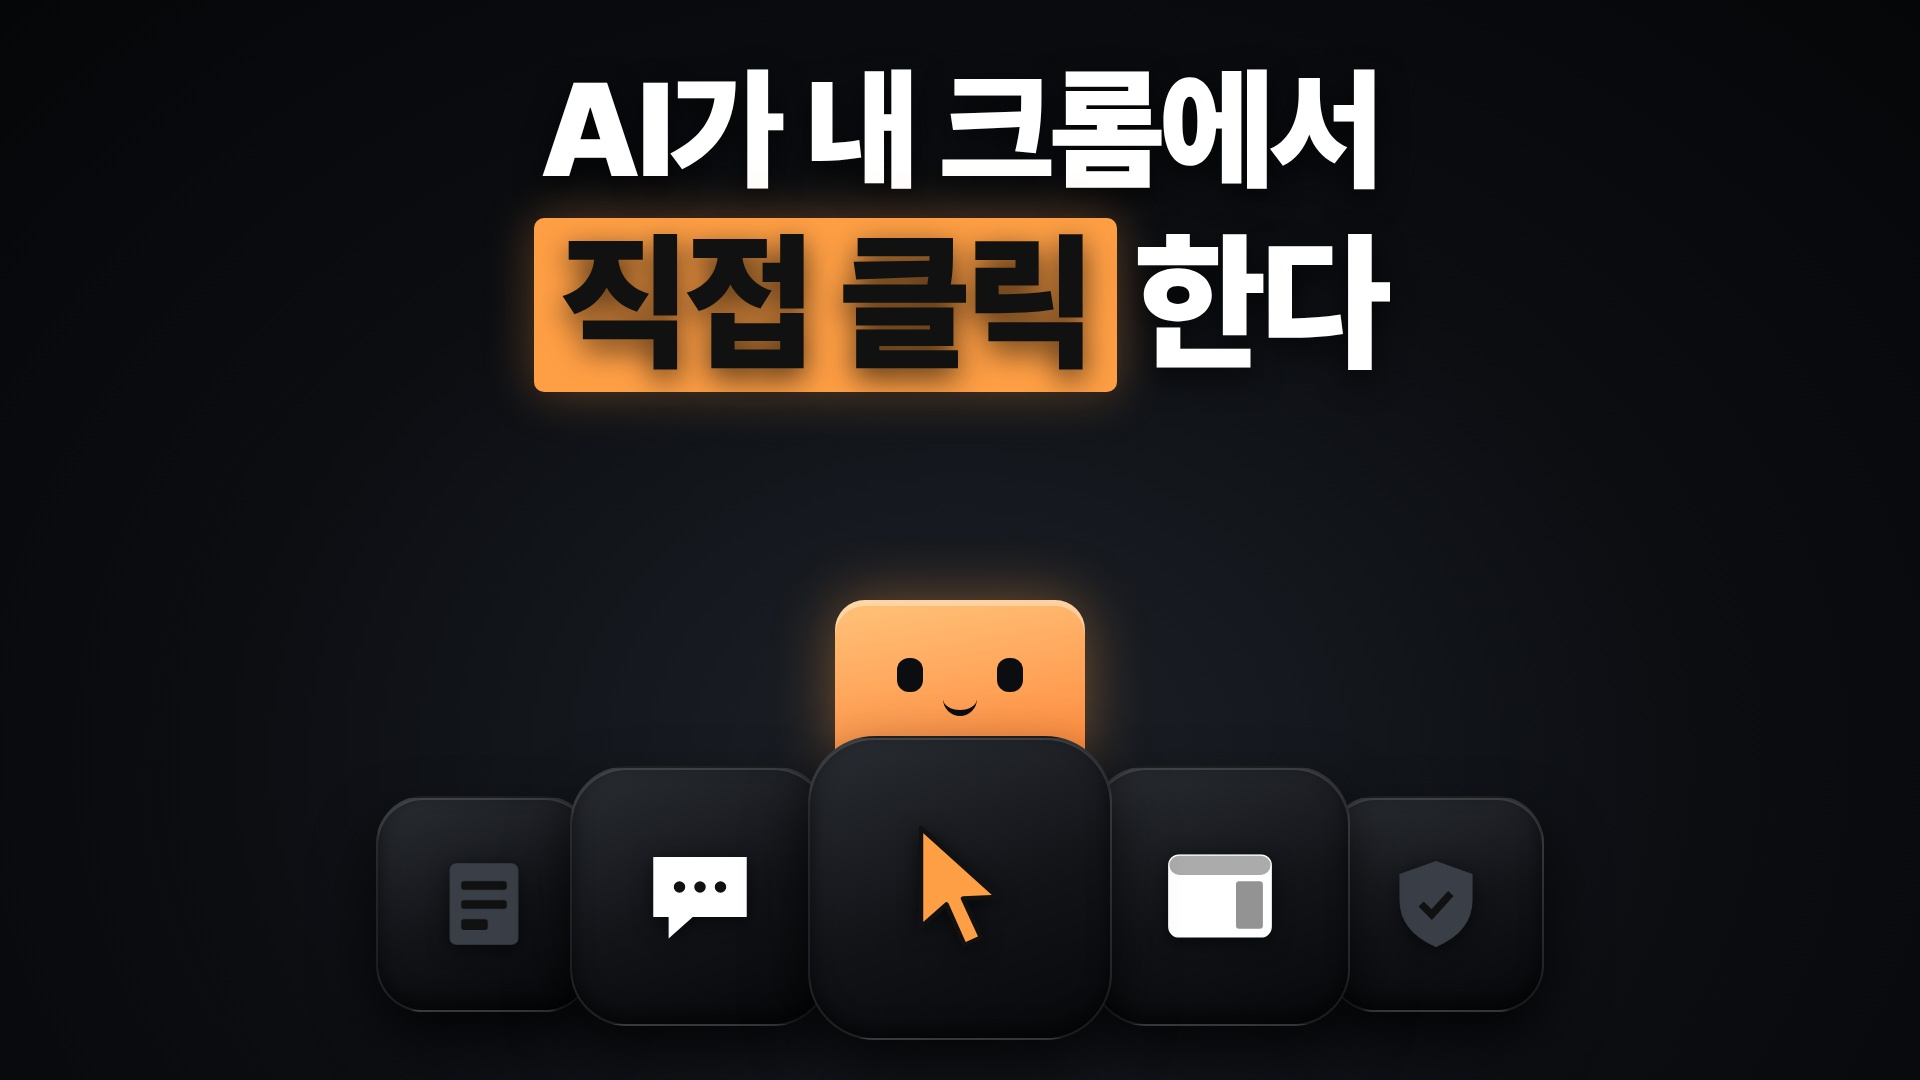
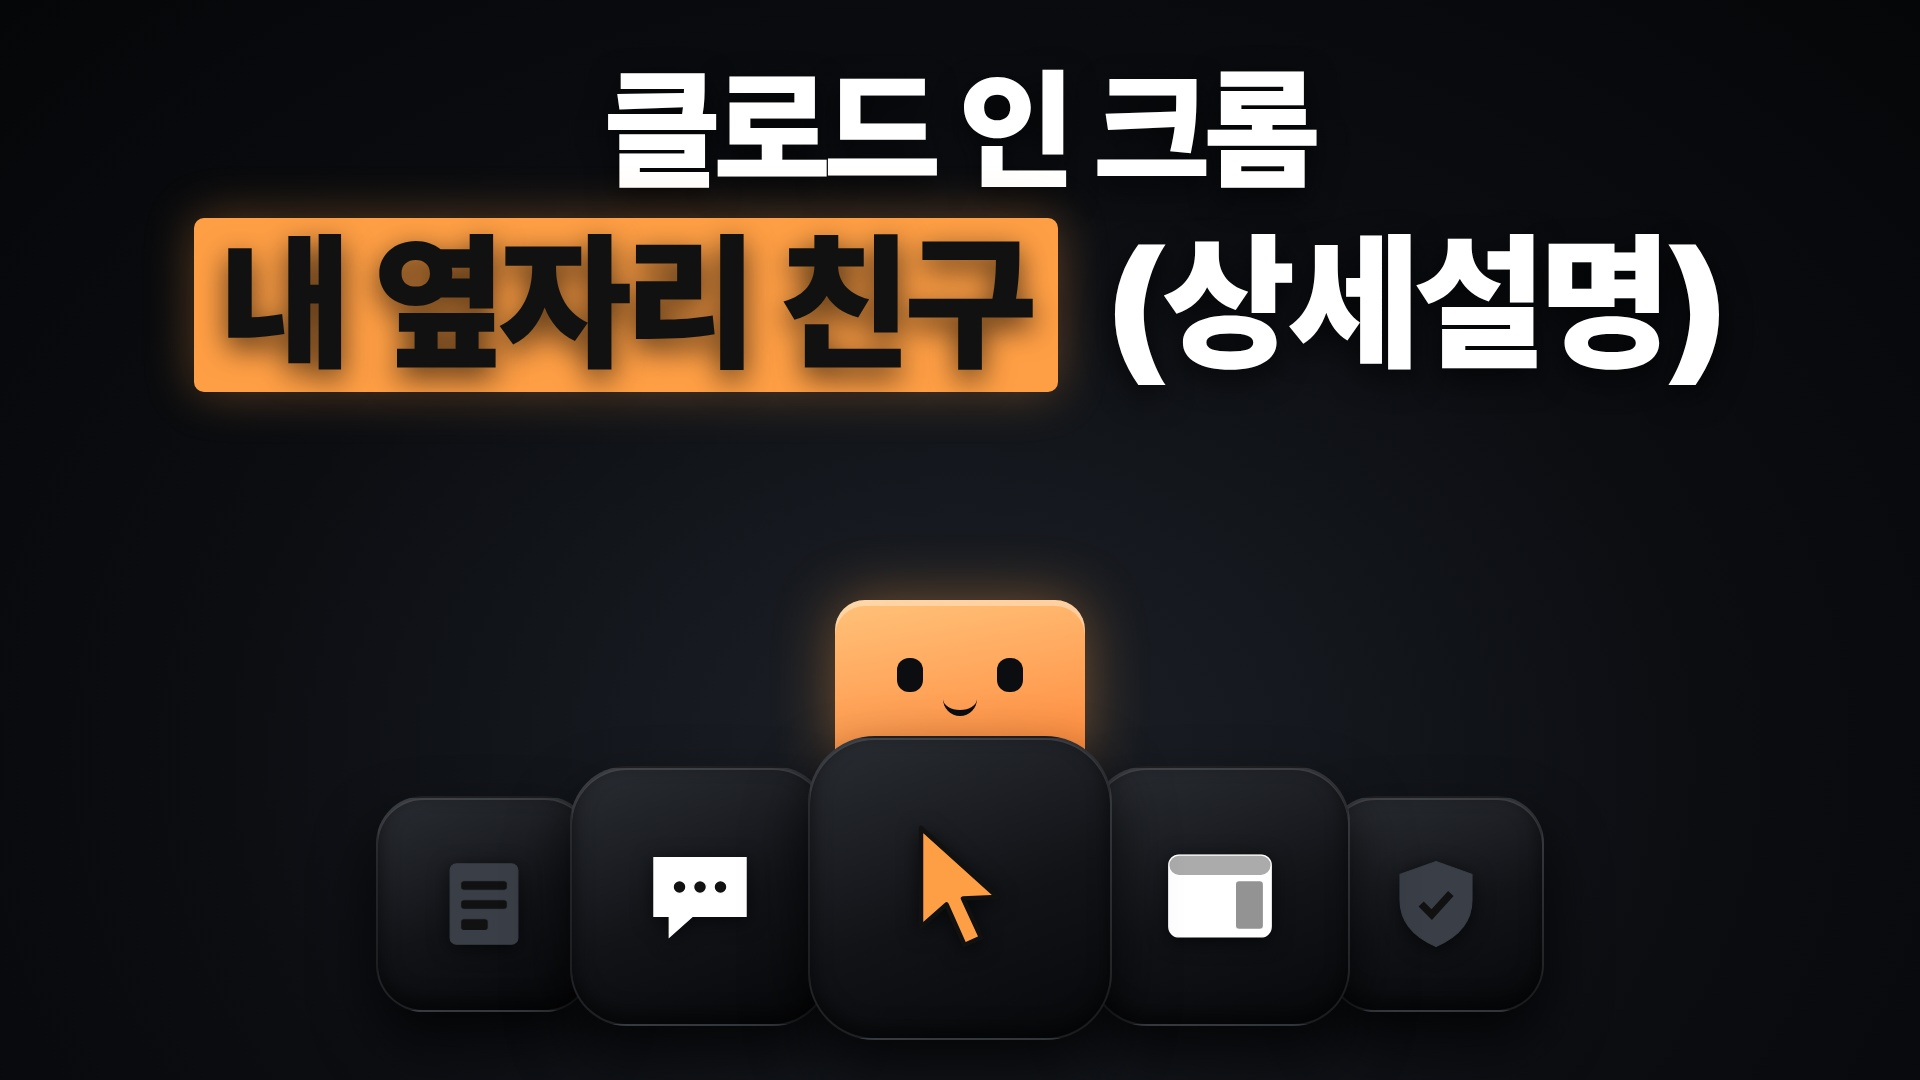
클로드 인 크롬 v3: 썸네일 문구 '클로드 인 크롬 / 내 옆자리 친구 (상세설명)'
Claude-Session: https://claude.ai/code/session_01QAwgc5CgfRqDU2a4ySE2yW

Changed region(s): [[0.0938, 0.0611, 0.9062, 0.3972]]

diff --git a/release/클로드인크롬_사용법/버전기록.md b/release/클로드인크롬_사용법/버전기록.md
@@ -4,3 +4,4 @@
 |---|---|---|---|---|
 | v1 | 2026-11-05 | 10:06 | 음성불일치 9 · 끊김 1 · 멈춤 0 · 검은화면 0 · 개인정보 0 · 자막 0 | 첫 풀영상: 클로드 인 크롬 11분, 중학생 눈높이, 새 화면 모양(남색·주황·격자·꺾쇠)·browser 장면 |
 | v2 | 2026-11-05 | 10:06 | 음성불일치 7 · 끊김 1 · 멈춤 0 · 검은화면 0 · 개인정보 0 · 자막 0 | v1 검수 반영: '이번만 허용을' 소리 빠짐 → '첫 번째 대답을 고르세요'로 고쳐 다시 녹음, 썸네일 아이콘을 브라우저용(신청서·대화·마우스·창·방패)과 주황 마스코트로 바꿈 |
+| v3 | 2026-11-05 | 10:06 | 음성불일치 7 · 끊김 1 · 멈춤 0 · 검은화면 0 · 개인정보 0 · 자막 0 | 썸네일 문구만 바꿈: 클로드 인 크롬 / 내 옆자리 친구 (상세설명) — 영상·설명란은 v2와 같음 |
